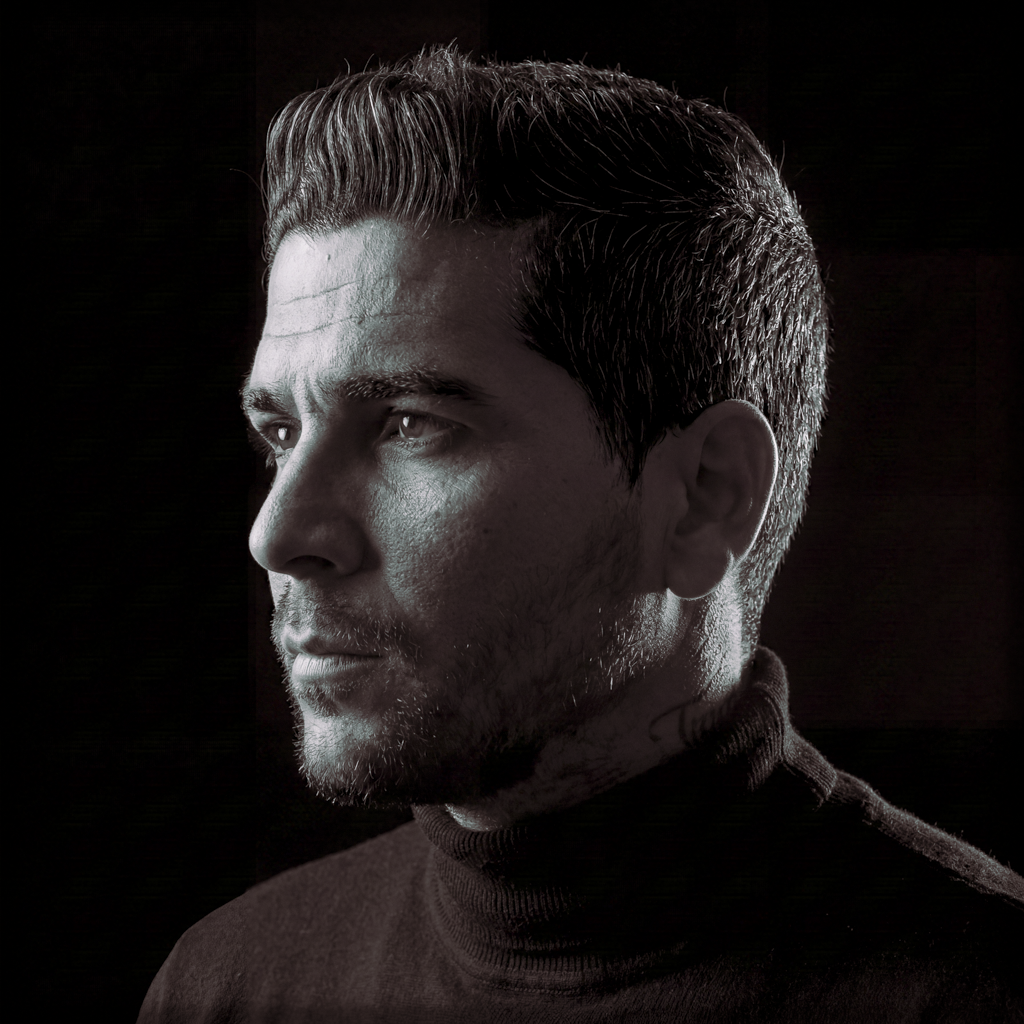
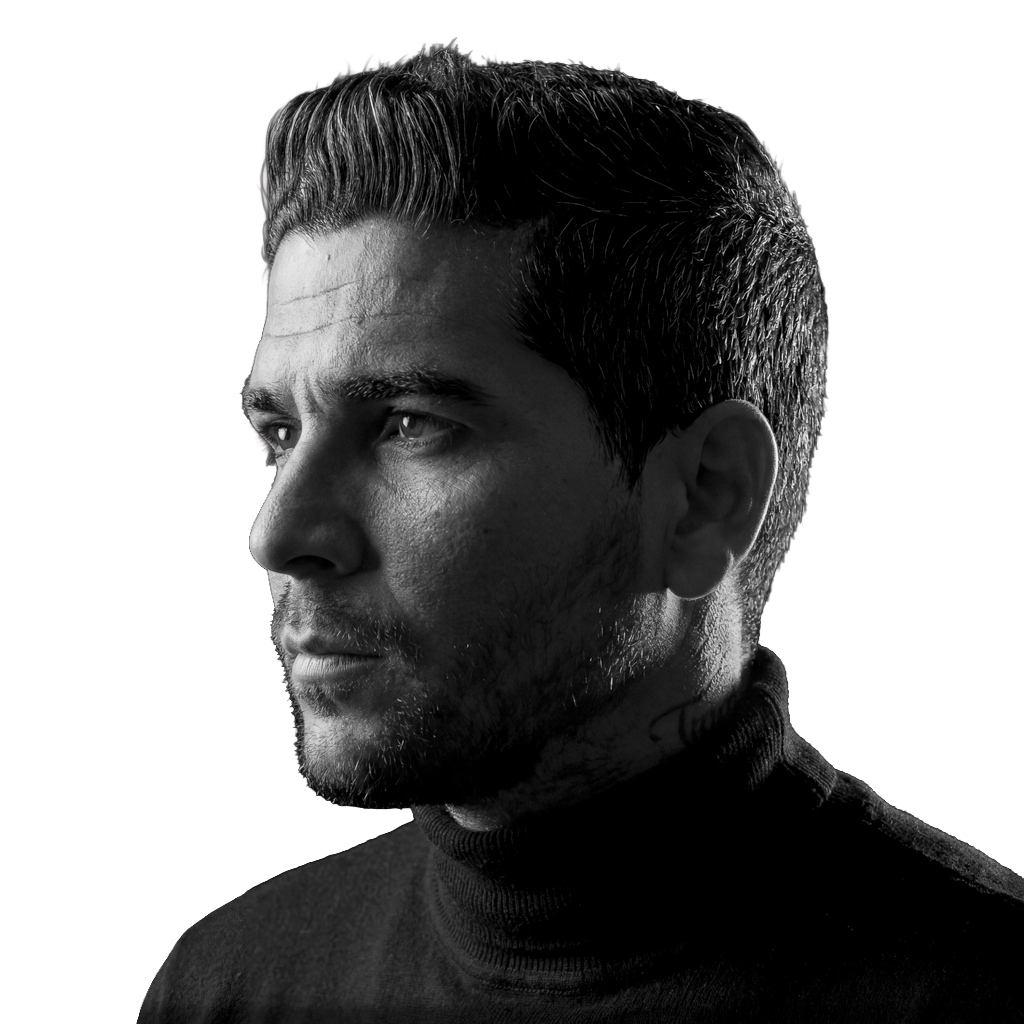
feat: foto de perfil transparente gigante na hero + fix canvas overflow

diff --git a/_deploy/index.html b/_deploy/index.html
@@ -321,11 +321,13 @@
       height: 100%;
       position: relative;
       z-index: 1;
+      min-width: 0;
     }
 
     .morph-canvas {
       width: 100%;
       height: 100%;
+      min-width: 0;
     }
 
     .hero-content-side {
@@ -333,20 +335,18 @@
       display: flex;
       flex-direction: column;
       justify-content: center;
-      padding: 80px 60px;
+      padding: 24px 40px;
       position: relative;
       z-index: 2;
+      overflow: hidden;
       background: linear-gradient(135deg, var(--bg-dark) 0%, rgba(27, 38, 59, 0.8) 100%);
     }
 
     .hero-profile-img {
-      width: 280px;
-      height: 280px;
-      border-radius: 50%;
-      object-fit: cover;
-      border: 3px solid var(--accent);
-      margin-bottom: 32px;
-      box-shadow: 0 0 40px rgba(119, 141, 169, 0.2);
+      width: min(34vw, 400px);
+      height: auto;
+      margin: -20px auto 4px;
+      filter: drop-shadow(0 20px 60px rgba(119, 141, 169, 0.25));
     }
 
     .hero-tag {
@@ -515,8 +515,10 @@
       }
 
       .hero-profile-img {
-        width: 160px;
-        height: 160px;
+        width: min(42vw, 300px);
+        height: auto;
+        margin-top: -16px;
+        margin-bottom: 4px;
       }
 
       .hero-title {
@@ -2760,7 +2762,7 @@
     const scene = new THREE.Scene();
     const camera = new THREE.PerspectiveCamera(75, window.innerWidth / window.innerHeight, 0.1, 1000);
     const renderer = new THREE.WebGLRenderer({ canvas: morphCanvas, alpha: true, antialias: true });
-    renderer.setSize(window.innerWidth, window.innerHeight);
+    renderer.setSize(window.innerWidth, window.innerHeight, false);
     renderer.setPixelRatio(Math.min(window.devicePixelRatio, 2));
 
     // Create goo geometry
@@ -3035,7 +3037,7 @@
     window.addEventListener('resize', () => {
       camera.aspect = window.innerWidth / window.innerHeight;
       camera.updateProjectionMatrix();
-      renderer.setSize(window.innerWidth, window.innerHeight);
+      renderer.setSize(window.innerWidth, window.innerHeight, false);
     });
 
     // ==========================================================================

diff --git a/index.html b/index.html
@@ -321,11 +321,13 @@
       height: 100%;
       position: relative;
       z-index: 1;
+      min-width: 0;
     }
 
     .morph-canvas {
       width: 100%;
       height: 100%;
+      min-width: 0;
     }
 
     .hero-content-side {
@@ -333,20 +335,18 @@
       display: flex;
       flex-direction: column;
       justify-content: center;
-      padding: 80px 60px;
+      padding: 24px 40px;
       position: relative;
       z-index: 2;
+      overflow: hidden;
       background: linear-gradient(135deg, var(--bg-dark) 0%, rgba(27, 38, 59, 0.8) 100%);
     }
 
     .hero-profile-img {
-      width: 280px;
-      height: 280px;
-      border-radius: 50%;
-      object-fit: cover;
-      border: 3px solid var(--accent);
-      margin-bottom: 32px;
-      box-shadow: 0 0 40px rgba(119, 141, 169, 0.2);
+      width: min(34vw, 400px);
+      height: auto;
+      margin: -20px auto 4px;
+      filter: drop-shadow(0 20px 60px rgba(119, 141, 169, 0.25));
     }
 
     .hero-tag {
@@ -515,8 +515,10 @@
       }
 
       .hero-profile-img {
-        width: 160px;
-        height: 160px;
+        width: min(42vw, 300px);
+        height: auto;
+        margin-top: -16px;
+        margin-bottom: 4px;
       }
 
       .hero-title {
@@ -2760,7 +2762,7 @@
     const scene = new THREE.Scene();
     const camera = new THREE.PerspectiveCamera(75, window.innerWidth / window.innerHeight, 0.1, 1000);
     const renderer = new THREE.WebGLRenderer({ canvas: morphCanvas, alpha: true, antialias: true });
-    renderer.setSize(window.innerWidth, window.innerHeight);
+    renderer.setSize(window.innerWidth, window.innerHeight, false);
     renderer.setPixelRatio(Math.min(window.devicePixelRatio, 2));
 
     // Create goo geometry
@@ -3035,7 +3037,7 @@
     window.addEventListener('resize', () => {
       camera.aspect = window.innerWidth / window.innerHeight;
       camera.updateProjectionMatrix();
-      renderer.setSize(window.innerWidth, window.innerHeight);
+      renderer.setSize(window.innerWidth, window.innerHeight, false);
     });
 
     // ==========================================================================
